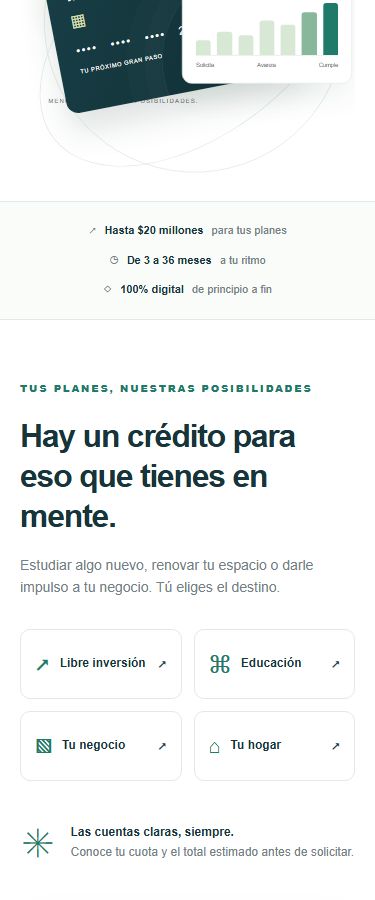
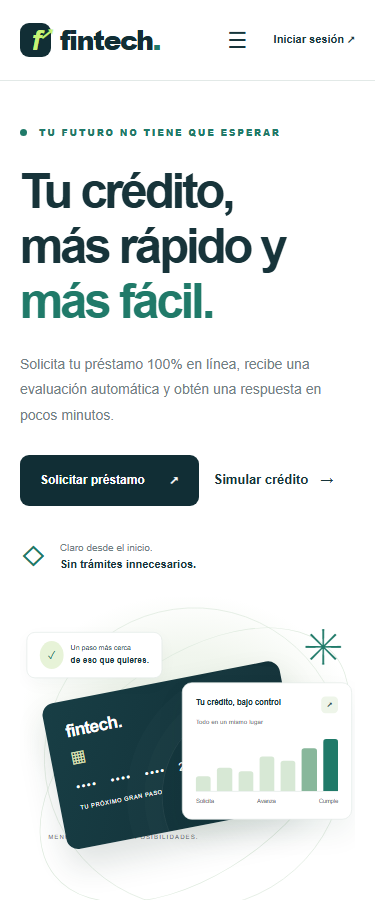
Ajustar la evidencia de la portada en móvil

diff --git a/docs/EVIDENCIAS.md b/docs/EVIDENCIAS.md
@@ -24,7 +24,7 @@ Para $5.000.000 COP a 12 meses, el simulador muestra una cuota de $467.010 COP c
 
 ![Panel del cliente](../screenshots/dashboard.png)
 
-La cuenta de demostración muestra la próxima cuota, el capital pendiente y las solicitudes registradas.
+La cuenta de demostración muestra la próxima cuota, los préstamos activos y el estado de las solicitudes.
 
 ## 5. Configuración de la solicitud
 
